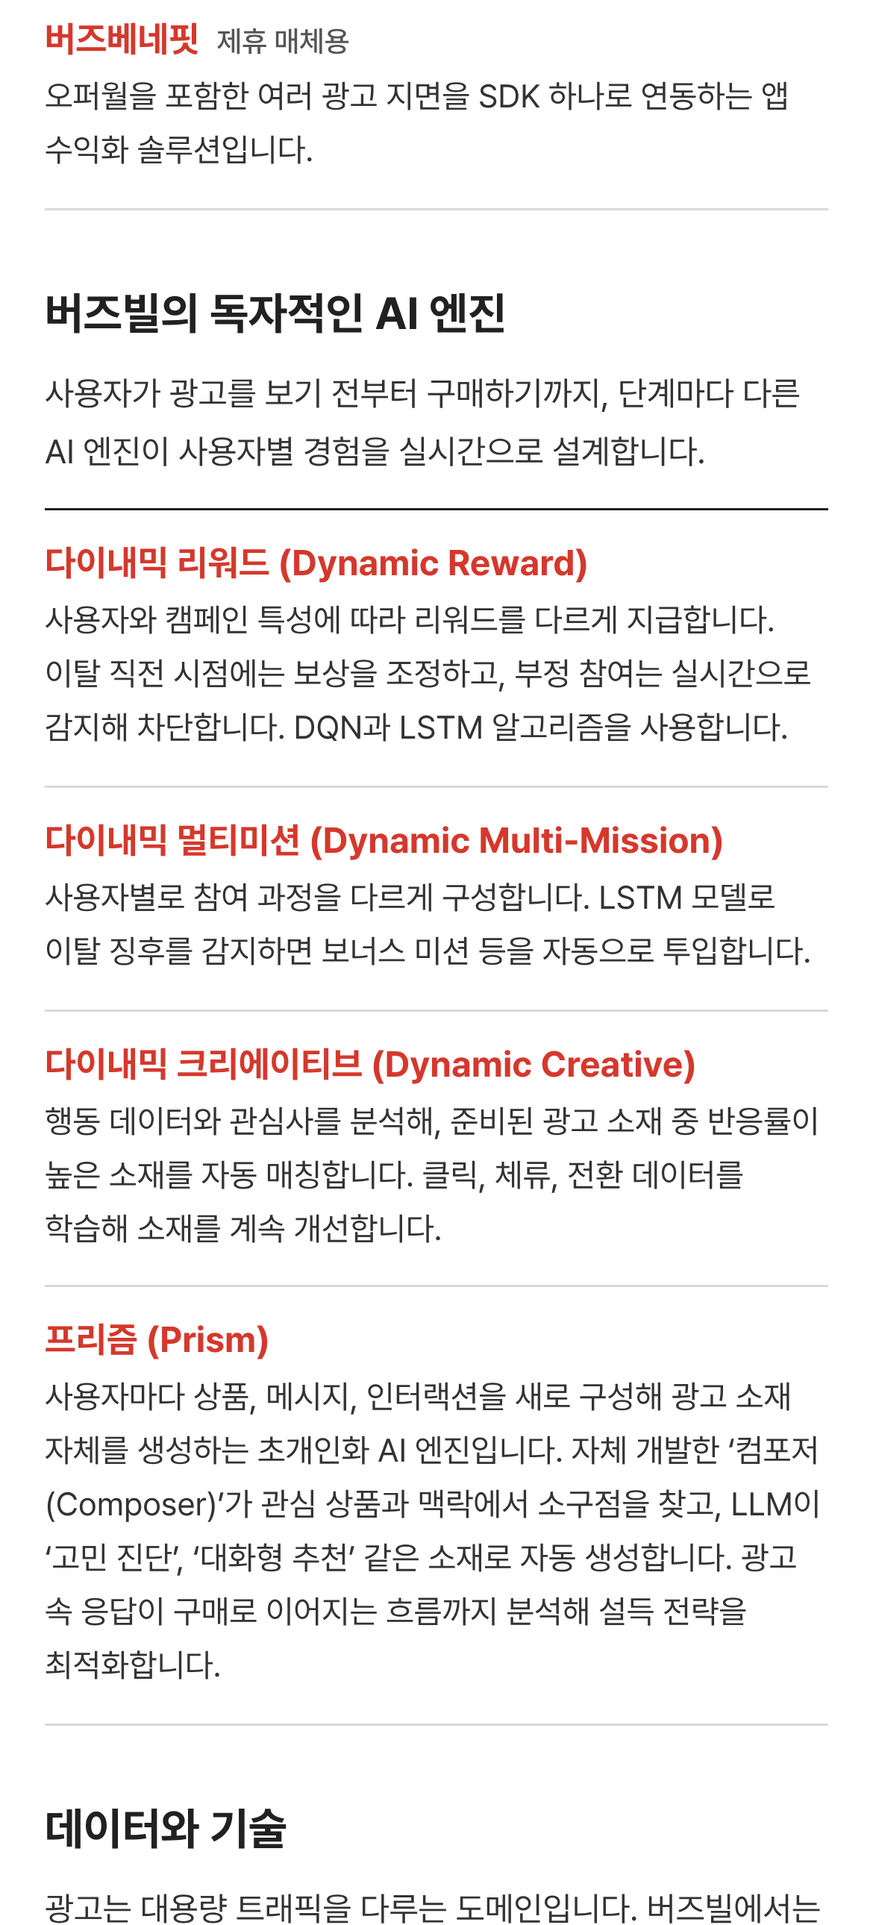
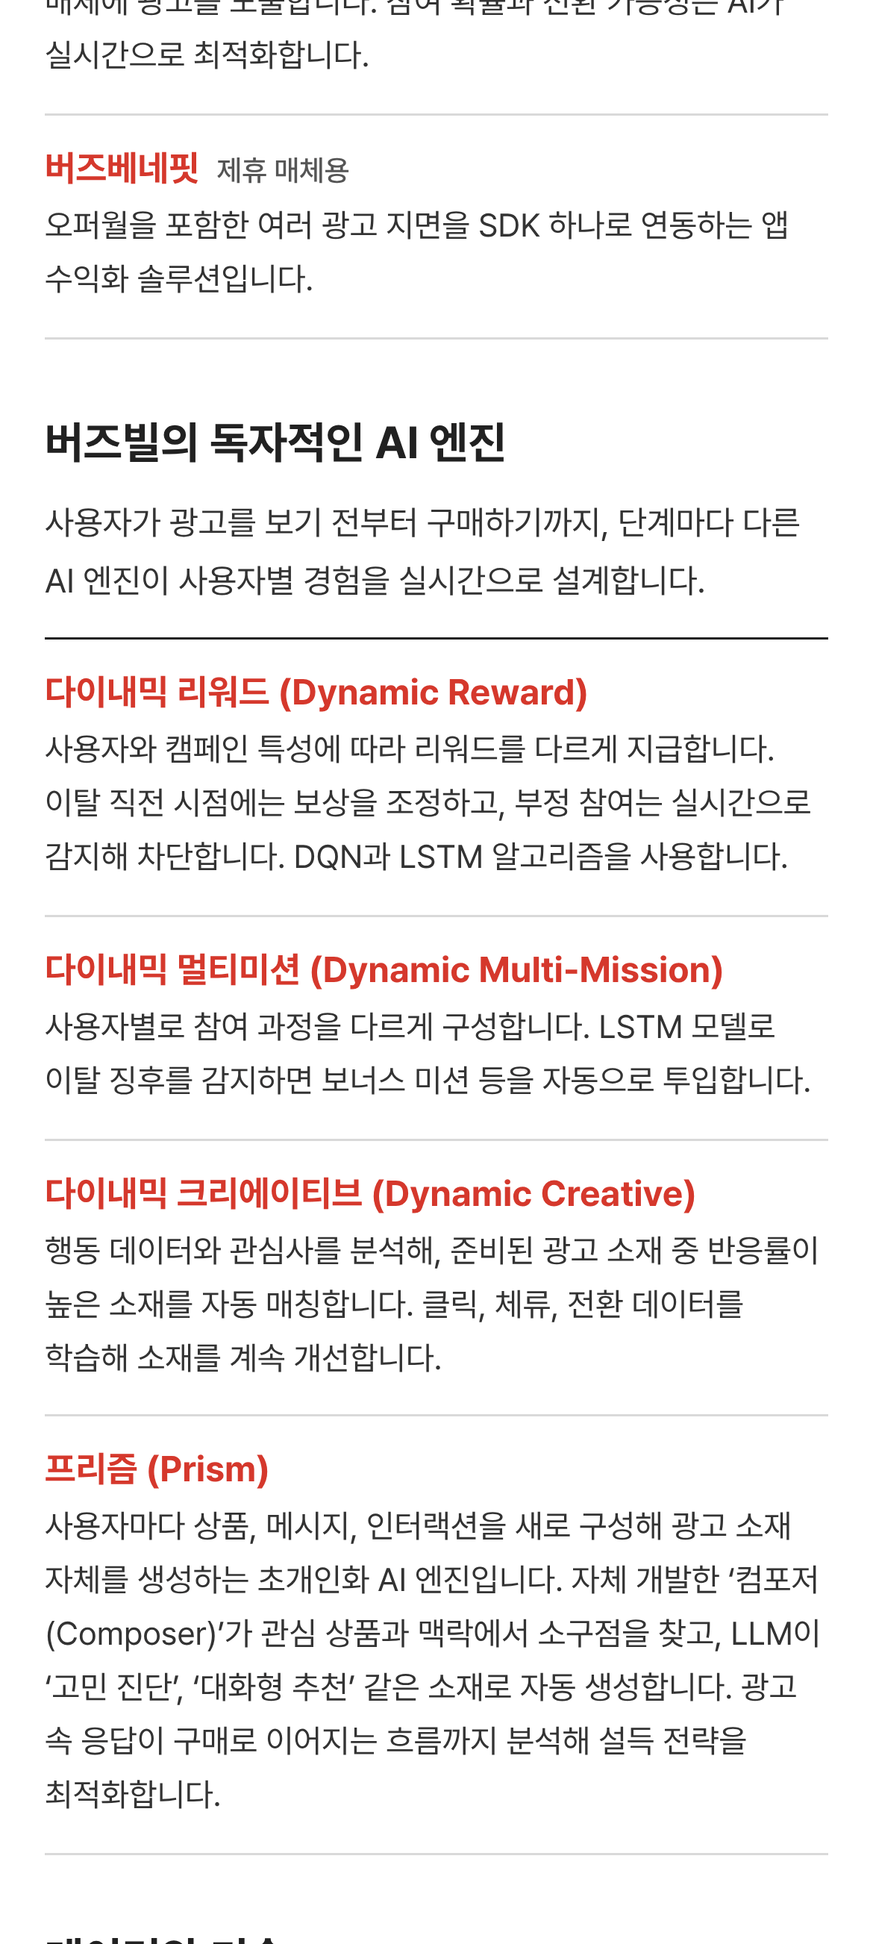
Add files via upload

Changed region(s): [[0.0308, 0.0, 0.9538, 1.0]]

diff --git a/index.html b/index.html
@@ -16,9 +16,9 @@ html,body{margin:0;background:#FFFFFF}
 </head>
 <body>
 <main class="wrap">
-<img src="s1.png" alt="" width="1170" height="2580"><img src="s2.png" alt="" width="1170" height="2580"><img src="s3.png" alt="" width="1170" height="2580"><img src="s4.png" alt="" width="1170" height="2580"><img src="s5.png" alt="" width="1170" height="2580"><img src="s6.png" alt="" width="1170" height="2580"><img src="s7.png" alt="" width="1170" height="2580"><img src="s8.png" alt="" width="1170" height="2580">
-<a href="https://buzzvil.career.greetinghr.com/ko/o/233330" aria-label="채용 공고 보기" style="left:5.128%;top:72.1285%;width:89.744%;height:0.6977%"></a><a href="https://buzzvil.career.greetinghr.com/ko/home" aria-label="채용 홈페이지" style="left:5.128%;top:96.0765%;width:89.744%;height:0.7267%"></a><a href="https://tech.buzzvil.com/" aria-label="테크 블로그" style="left:5.128%;top:96.9486%;width:89.744%;height:0.7267%"></a><a href="https://www.buzzvil.com/career/culture_blog" aria-label="피플 블로그" style="left:5.128%;top:97.8207%;width:89.744%;height:0.7267%"></a>
-<div class="sr">우아한테크코스 2026 리크루팅 데이<br>버즈빌 개발자 채용 안내<br><br>광고 노출 이후의 경험을 설계하는 인터랙션 AI 에이전트, 버즈빌입니다.<br><br>회사 소개<br><br>버즈빌은 인터랙션 AI 에이전트 회사입니다. 2012년에 설립했고, 카카오뱅크, 삼성월렛, CJ ONE 등 500여 개 제휴 매체에 광고를 제공합니다.<br><br>그동안 쌓은 행동 데이터와 자체 AI 엔진으로, 광고를 본 사용자가 참여하고 구매하기까지의 과정을 사용자별로 다르게 설계합니다.<br><br>누적 이용자 수<br>7,000만+<br>월 평균 사용자 수<br>2,400만+<br>제휴 매체 수<br>500+<br>누적 광고주 수<br>20,000+<br>광고 재집행율<br>82%<br>잡플래닛 평점<br>4.1점<br>제품<br>버즈애드 광고주용<br><br>앱 설치, 구매, 가입 등 광고주의 KPI에 맞춰 500여 개 제휴 매체에 광고를 노출합니다. 참여 확률과 전환 가능성은 AI가 실시간으로 최적화합니다.<br><br>버즈베네핏 제휴 매체용<br><br>오퍼월을 포함한 여러 광고 지면을 SDK 하나로 연동하는 앱 수익화 솔루션입니다.<br><br>버즈빌의 독자적인 AI 엔진<br><br>사용자가 광고를 보기 전부터 구매하기까지, 단계마다 다른 AI 엔진이 사용자별 경험을 실시간으로 설계합니다.<br><br>다이내믹 리워드 (Dynamic Reward)<br><br>사용자와 캠페인 특성에 따라 리워드를 다르게 지급합니다. 이탈 직전 시점에는 보상을 조정하고, 부정 참여는 실시간으로 감지해 차단합니다. DQN과 LSTM 알고리즘을 사용합니다.<br><br>다이내믹 멀티미션 (Dynamic Multi-Mission)<br><br>사용자별로 참여 과정을 다르게 구성합니다. LSTM 모델로 이탈 징후를 감지하면 보너스 미션 등을 자동으로 투입합니다.<br><br>다이내믹 크리에이티브 (Dynamic Creative)<br><br>행동 데이터와 관심사를 분석해, 준비된 광고 소재 중 반응률이 높은 소재를 자동 매칭합니다. 클릭, 체류, 전환 데이터를 학습해 소재를 계속 개선합니다.<br><br>프리즘 (Prism)<br><br>사용자마다 상품, 메시지, 인터랙션을 새로 구성해 광고 소재 자체를 생성하는 초개인화 AI 엔진입니다. 자체 개발한 ‘컴포저(Composer)’가 관심 상품과 맥락에서 소구점을 찾고, LLM이 ‘고민 진단’, ‘대화형 추천’ 같은 소재로 자동 생성합니다. 광고 속 응답이 구매로 이어지는 흐름까지 분석해 설득 전략을 최적화합니다.<br><br>데이터와 기술<br><br>광고는 대용량 트래픽을 다루는 도메인입니다. 버즈빌에서는 매월 2,500만 명의 유저에게서 수십 억 건 이상의 데이터가 발생합니다.<br><br>2012년부터 쌓은 수십억 건의 사용자 행동, 보상 자사 데이터<br>500여 제휴 매체의 광고 데이터를 개인정보 공유 없이 학습하는 연합학습 체계<br>K-means, LSTM, DQN 기반 AI 엔진을 실제 서비스에 적용<br>리워드 최적 배분, 어뷰징 차단 등 핵심 로직 특허 보유<br>Performance Maximizer<br>유저 가치 추론 모델 기반의 타겟팅 시스템<br>Prediction Model<br>유저 특성, 행동 로그, 리워드 반응 데이터로 개별 유저의 광고 반응을 실시간 예측<br>Fraud Detection<br>부정 참여 가능성이 높은 행동을 실시간으로 판별해 리워드 광고를 자동 제한<br>개발 문화<br>AI 도구 지원<br><br>Claude Code Max($200 플랜), ChatGPT, Cursor, GitHub Copilot, CodeRabbit 등을 회사에서 지원합니다. 개발 직군이 아닌 구성원도 AI로 필요한 도구를 직접 만들어 씁니다.<br><br>코드 리뷰<br><br>모든 PR은 동료 1명 이상의 리뷰와 승인을 받은 뒤 반영합니다.<br><br>스터디와 세미나<br><br>사내 스터디와 세미나를 운영하고, 설계와 코드에 대해 함께 논의합니다.<br><br>직군 간 소통<br><br>직군과 관계없이 프로덕트 방향에 의견을 낼 수 있습니다. 새로운 기술 도입도 팀에서 제안해 검토합니다.<br><br>기술 스택<br>백엔드<br>Go(gRPC), Python(Django), MySQL, DynamoDB, Redis, Elasticsearch, Kafka<br>프론트엔드<br>TypeScript, React / Next.js, TanStack Query, Zustand, Tailwind CSS, shadcn/ui, Turborepo, Vitest, Playwright<br>클라이언트 (Android)<br>Kotlin(Java 병행), Coroutines, Dagger, Retrofit / OkHttp, AndroidX Lifecycle, Gradle, JUnit / MockK / Robolectric / Espresso, GitHub Actions<br>클라이언트 (iOS)<br>Swift(Obj-C 일부), UIKit, Combine, SwiftUI, CocoaPods, fastlane, GitHub Actions<br>머신러닝<br>Python, PyTorch, LightGBM, CatBoost, scikit-learn, Hugging Face Transformers, ONNX, Triton, SageMaker, MLflow, Bedrock, Airflow<br>DevOps<br>AWS(EKS), Kubernetes, Terraform, Helm, Argo CD, GitHub Actions, Datadog, Grafana, Prometheus, Loki, Sentry<br>참여하는 프로젝트에 따라 일부 다를 수 있습니다.<br>AI 활용 방식<br>동료의 리뷰봇에게 먼저 리뷰받습니다.<br><br>많은 개발자가 자기만의 리뷰 관점을 담은 코드 리뷰 봇을 운영합니다. 개발하면서 동료의 리뷰봇으로 리뷰를 받는 게 일상입니다.<br><br>AI와 함께 풀스택으로 일합니다.<br><br>인프라 생성부터 기획과 디자인까지 AI로 직접 해내도록 장려합니다. 직무 경계에 갇히지 않고 제품을 처음부터 끝까지 만듭니다.<br><br>일할수록 똑똑해지는 에이전트를 설계합니다.<br><br>코딩 에이전트 세션 로그에서 업무 지식을 자동으로 뽑아 knowledge base에 쌓는 파이프라인을 운영합니다. 에이전트가 이 지식을 다시 활용하므로 지식은 휘발되지 않고, 에이전트는 복리로 똑똑해집니다.<br><br>모집 포지션<br>[광고 운영 시스템] 백엔드 개발자<br><br>경력 무관이며 신입도 지원할 수 있습니다.<br>정규직 포지션입니다.<br><br>주요 업무<br>계정 시스템: 광고주와 운영자의 계정, 권한 관리, 제휴사 SSO 연동<br>광고 관리 시스템: 광고 생성과 관리, 지면 노출까지의 서빙 흐름 구축<br>정산 시스템: 제휴사 정산 시스템 연동, 자체 백업 정산 로직 개발<br>이벤트 페이지: 광고와 유저를 잇는 브릿지 페이지 생성 기능과 호스팅 시스템 개발<br>비즈채널: 외부 커머스 스토어 등과 연결해 광고 소재를 수급하고 광고주 자산을 관리하는 기능 개발<br><br>백엔드 개발이 중심이고, 제품 상황에 따라 어드민이나 이벤트 페이지 같은 프론트엔드를 포함한 풀스택으로 업무 범위가 넓어질 수 있습니다.<br><br>기술 스택<br><br>Kotlin, Go, Python(Django), MySQL, DynamoDB, Redis, Elasticsearch, Kafka<br><br>자격 요건<br>Kotlin, Go, Python 등 서버 언어 중 하나 이상으로 백엔드 시스템을 개발해 본 분 (프로젝트 경험 포함)<br>MySQL 등 관계형 DB와 Redis, DynamoDB 등 NoSQL을 사용해 본 분<br>외부 시스템과의 API 연동을 설계하고 개발해 본 분<br>프론트엔드 등 다른 기술 영역으로 넓혀 가는 데 열려 있는 분<br>여러 직군과 원활하게 협업할 수 있는 분<br>AI 도구를 적극적으로 활용해 생산성을 높이는 분<br>근무지<br><br>프로젝트 기간에는 제휴사 오피스에서, 프로젝트가 끝난 뒤에는 버즈빌 오피스에서 근무합니다.<br><br>채용 공고 보기<br>채용 절차<br>서류전형<br>이력서, 자기소개서, 포트폴리오 등 자유양식<br>사전과제<br>직무 적합도 판단을 위한 과제<br>1차 인터뷰 (Job-fit)<br>실무진 면접, 현장 코딩 테스트, 사전과제 리뷰<br>레퍼런스 체크<br>2차 종합 인터뷰 (Culture-fit)<br>직무 및 컬처핏 종합 인터뷰<br>처우협의<br>오퍼레터 전달<br>모든 전형의 합격, 불합격 결과는 영업일 10일 이내에 안내합니다.<br>입사 후 3개월은 프로베이션 기간입니다. 프로베이션 3개월의 근로계약을 먼저 작성하고, 통과하면 기간의 정함이 없는 정규직 계약서를 작성합니다.<br>프로베이션 통과 시 축하금 100만원을 지급합니다.<br>복지<br>몰입을 위한 최적의 환경을 제공합니다.<br>주 1회 전사 재택근무<br>오전 8시~10시 자율 출근<br>1시간 단위 연차 사용<br>3년 이상 근속 시 2주 리프레시 휴가<br>존중과 용기를 담아 커뮤니케이션 합니다.<br>격주 전체 회의에서 회사 정보 공유<br>분기별 OKR로 전사 우선순위 공유<br>전 구성원 영어 이름 사용<br>잘 먹고 잘 쉴 수 있도록 지원합니다.<br>점심 식대 지원<br>종합 건강검진, 전사 상해보험<br>간식과 음료 무제한 제공<br>휴게실, 수면실, 게임룸<br>석촌호수 도보 1분 거리<br>성장을 위해서라면 아끼지 않습니다.<br>AI 툴 적극 지원 (Claude Code Max $200 플랜, ChatGPT, Cursor, GitHub Copilot, CodeRabbit)<br>매월 자기계발비 10만원<br>자기계발 프로젝트 버즈챌린지<br>사내 스터디, 동호회 지원<br>외부 세미나, 컨퍼런스 교육비<br>도서 구매 무제한 지원<br>알찬 리워드 혜택과 함께합니다.<br>버즈빌 홈페이지 지원 시 리워드 100만원<br>인재 추천 리워드 최대 300만원<br>결혼 축하금 및 경조금 최대 100만원<br>본인 및 배우자 출산 시 선물 구독 서비스<br>블로그 포스팅, 브랜딩 활동 리워드<br>5년 이상 장기 근속 특별 리워드<br>지원 방법<br><br>채용 홈페이지에서 포지션을 확인하고 지원할 수 있습니다.<br><br>채용 홈페이지<br>테크 블로그<br>피플 블로그<br>채용 문의: recruit@buzzvil.com<br>사무실: 서울시 송파구 석촌호수로 272, 엠와이빌딩 2-5층</div>
+<img src="s1.png" alt="" width="1170" height="2605"><img src="s2.png" alt="" width="1170" height="2605"><img src="s3.png" alt="" width="1170" height="2605"><img src="s4.png" alt="" width="1170" height="2605"><img src="s5.png" alt="" width="1170" height="2605"><img src="s6.png" alt="" width="1170" height="2605"><img src="s7.png" alt="" width="1170" height="2605"><img src="s8.png" alt="" width="1170" height="2603">
+<a href="https://forms.gle/jYVGB8HRa2gm8NwB7" aria-label="1분 설문 참여하기" style="left:5.128%;top:3.1457%;width:89.744%;height:0.6910%"></a><a href="https://buzzvil.career.greetinghr.com/ko/o/233330" aria-label="채용 공고 보기" style="left:5.128%;top:72.3933%;width:89.744%;height:0.6910%"></a><a href="https://buzzvil.career.greetinghr.com/ko/home" aria-label="채용 홈페이지" style="left:5.128%;top:96.1138%;width:89.744%;height:0.7198%"></a><a href="https://tech.buzzvil.com/" aria-label="테크 블로그" style="left:5.128%;top:96.9776%;width:89.744%;height:0.7198%"></a><a href="https://www.buzzvil.com/career/culture_blog" aria-label="피플 블로그" style="left:5.128%;top:97.8414%;width:89.744%;height:0.7198%"></a>
+<div class="sr">우아한테크코스 2026 리크루팅 데이<br>버즈빌 개발자 채용 안내<br><br>광고 노출 이후의 경험을 설계하는 인터랙션 AI 에이전트, 버즈빌입니다.<br><br>1분 설문 참여하기<br>회사 소개<br><br>버즈빌은 인터랙션 AI 에이전트 회사입니다. 2012년에 설립했고, 카카오뱅크, 삼성월렛, CJ ONE 등 500여 개 제휴 매체에 광고를 제공합니다.<br><br>그동안 쌓은 행동 데이터와 자체 AI 엔진으로, 광고를 본 사용자가 참여하고 구매하기까지의 과정을 사용자별로 다르게 설계합니다.<br><br>누적 이용자 수<br>7,000만+<br>월 평균 사용자 수<br>2,400만+<br>제휴 매체 수<br>500+<br>누적 광고주 수<br>20,000+<br>광고 재집행율<br>82%<br>잡플래닛 평점<br>4.1점<br>제품<br>버즈애드 광고주용<br><br>앱 설치, 구매, 가입 등 광고주의 KPI에 맞춰 500여 개 제휴 매체에 광고를 노출합니다. 참여 확률과 전환 가능성은 AI가 실시간으로 최적화합니다.<br><br>버즈베네핏 제휴 매체용<br><br>오퍼월을 포함한 여러 광고 지면을 SDK 하나로 연동하는 앱 수익화 솔루션입니다.<br><br>버즈빌의 독자적인 AI 엔진<br><br>사용자가 광고를 보기 전부터 구매하기까지, 단계마다 다른 AI 엔진이 사용자별 경험을 실시간으로 설계합니다.<br><br>다이내믹 리워드 (Dynamic Reward)<br><br>사용자와 캠페인 특성에 따라 리워드를 다르게 지급합니다. 이탈 직전 시점에는 보상을 조정하고, 부정 참여는 실시간으로 감지해 차단합니다. DQN과 LSTM 알고리즘을 사용합니다.<br><br>다이내믹 멀티미션 (Dynamic Multi-Mission)<br><br>사용자별로 참여 과정을 다르게 구성합니다. LSTM 모델로 이탈 징후를 감지하면 보너스 미션 등을 자동으로 투입합니다.<br><br>다이내믹 크리에이티브 (Dynamic Creative)<br><br>행동 데이터와 관심사를 분석해, 준비된 광고 소재 중 반응률이 높은 소재를 자동 매칭합니다. 클릭, 체류, 전환 데이터를 학습해 소재를 계속 개선합니다.<br><br>프리즘 (Prism)<br><br>사용자마다 상품, 메시지, 인터랙션을 새로 구성해 광고 소재 자체를 생성하는 초개인화 AI 엔진입니다. 자체 개발한 ‘컴포저(Composer)’가 관심 상품과 맥락에서 소구점을 찾고, LLM이 ‘고민 진단’, ‘대화형 추천’ 같은 소재로 자동 생성합니다. 광고 속 응답이 구매로 이어지는 흐름까지 분석해 설득 전략을 최적화합니다.<br><br>데이터와 기술<br><br>광고는 대용량 트래픽을 다루는 도메인입니다. 버즈빌에서는 매월 2,500만 명의 유저에게서 수십 억 건 이상의 데이터가 발생합니다.<br><br>2012년부터 쌓은 수십억 건의 사용자 행동, 보상 자사 데이터<br>500여 제휴 매체의 광고 데이터를 개인정보 공유 없이 학습하는 연합학습 체계<br>K-means, LSTM, DQN 기반 AI 엔진을 실제 서비스에 적용<br>리워드 최적 배분, 어뷰징 차단 등 핵심 로직 특허 보유<br>Performance Maximizer<br>유저 가치 추론 모델 기반의 타겟팅 시스템<br>Prediction Model<br>유저 특성, 행동 로그, 리워드 반응 데이터로 개별 유저의 광고 반응을 실시간 예측<br>Fraud Detection<br>부정 참여 가능성이 높은 행동을 실시간으로 판별해 리워드 광고를 자동 제한<br>개발 문화<br>AI 도구 지원<br><br>Claude Code Max($200 플랜), ChatGPT, Cursor, GitHub Copilot, CodeRabbit 등을 회사에서 지원합니다. 개발 직군이 아닌 구성원도 AI로 필요한 도구를 직접 만들어 씁니다.<br><br>코드 리뷰<br><br>모든 PR은 동료 1명 이상의 리뷰와 승인을 받은 뒤 반영합니다.<br><br>스터디와 세미나<br><br>사내 스터디와 세미나를 운영하고, 설계와 코드에 대해 함께 논의합니다.<br><br>직군 간 소통<br><br>직군과 관계없이 프로덕트 방향에 의견을 낼 수 있습니다. 새로운 기술 도입도 팀에서 제안해 검토합니다.<br><br>기술 스택<br>백엔드<br>Go(gRPC), Python(Django), MySQL, DynamoDB, Redis, Elasticsearch, Kafka<br>프론트엔드<br>TypeScript, React / Next.js, TanStack Query, Zustand, Tailwind CSS, shadcn/ui, Turborepo, Vitest, Playwright<br>클라이언트 (Android)<br>Kotlin(Java 병행), Coroutines, Dagger, Retrofit / OkHttp, AndroidX Lifecycle, Gradle, JUnit / MockK / Robolectric / Espresso, GitHub Actions<br>클라이언트 (iOS)<br>Swift(Obj-C 일부), UIKit, Combine, SwiftUI, CocoaPods, fastlane, GitHub Actions<br>머신러닝<br>Python, PyTorch, LightGBM, CatBoost, scikit-learn, Hugging Face Transformers, ONNX, Triton, SageMaker, MLflow, Bedrock, Airflow<br>DevOps<br>AWS(EKS), Kubernetes, Terraform, Helm, Argo CD, GitHub Actions, Datadog, Grafana, Prometheus, Loki, Sentry<br>참여하는 프로젝트에 따라 일부 다를 수 있습니다.<br>AI 활용 방식<br>동료의 리뷰봇에게 먼저 리뷰받습니다.<br><br>많은 개발자가 자기만의 리뷰 관점을 담은 코드 리뷰 봇을 운영합니다. 개발하면서 동료의 리뷰봇으로 리뷰를 받는 게 일상입니다.<br><br>AI와 함께 풀스택으로 일합니다.<br><br>인프라 생성부터 기획과 디자인까지 AI로 직접 해내도록 장려합니다. 직무 경계에 갇히지 않고 제품을 처음부터 끝까지 만듭니다.<br><br>일할수록 똑똑해지는 에이전트를 설계합니다.<br><br>코딩 에이전트 세션 로그에서 업무 지식을 자동으로 뽑아 knowledge base에 쌓는 파이프라인을 운영합니다. 에이전트가 이 지식을 다시 활용하므로 지식은 휘발되지 않고, 에이전트는 복리로 똑똑해집니다.<br><br>모집 포지션<br>[광고 운영 시스템] 백엔드 개발자<br><br>경력 무관이며 신입도 지원할 수 있습니다.<br>정규직 포지션입니다.<br><br>주요 업무<br>계정 시스템: 광고주와 운영자의 계정, 권한 관리, 제휴사 SSO 연동<br>광고 관리 시스템: 광고 생성과 관리, 지면 노출까지의 서빙 흐름 구축<br>정산 시스템: 제휴사 정산 시스템 연동, 자체 백업 정산 로직 개발<br>이벤트 페이지: 광고와 유저를 잇는 브릿지 페이지 생성 기능과 호스팅 시스템 개발<br>비즈채널: 외부 커머스 스토어 등과 연결해 광고 소재를 수급하고 광고주 자산을 관리하는 기능 개발<br><br>백엔드 개발이 중심이고, 제품 상황에 따라 어드민이나 이벤트 페이지 같은 프론트엔드를 포함한 풀스택으로 업무 범위가 넓어질 수 있습니다.<br><br>기술 스택<br><br>Kotlin, Go, Python(Django), MySQL, DynamoDB, Redis, Elasticsearch, Kafka<br><br>자격 요건<br>Kotlin, Go, Python 등 서버 언어 중 하나 이상으로 백엔드 시스템을 개발해 본 분 (프로젝트 경험 포함)<br>MySQL 등 관계형 DB와 Redis, DynamoDB 등 NoSQL을 사용해 본 분<br>외부 시스템과의 API 연동을 설계하고 개발해 본 분<br>프론트엔드 등 다른 기술 영역으로 넓혀 가는 데 열려 있는 분<br>여러 직군과 원활하게 협업할 수 있는 분<br>AI 도구를 적극적으로 활용해 생산성을 높이는 분<br>근무지<br><br>프로젝트 기간에는 제휴사 오피스에서, 프로젝트가 끝난 뒤에는 버즈빌 오피스에서 근무합니다.<br><br>채용 공고 보기<br>채용 절차<br>서류전형<br>이력서, 자기소개서, 포트폴리오 등 자유양식<br>사전과제<br>직무 적합도 판단을 위한 과제<br>1차 인터뷰 (Job-fit)<br>실무진 면접, 현장 코딩 테스트, 사전과제 리뷰<br>레퍼런스 체크<br>2차 종합 인터뷰 (Culture-fit)<br>직무 및 컬처핏 종합 인터뷰<br>처우협의<br>오퍼레터 전달<br>모든 전형의 합격, 불합격 결과는 영업일 10일 이내에 안내합니다.<br>입사 후 3개월은 프로베이션 기간입니다. 프로베이션 3개월의 근로계약을 먼저 작성하고, 통과하면 기간의 정함이 없는 정규직 계약서를 작성합니다.<br>프로베이션 통과 시 축하금 100만원을 지급합니다.<br>복지<br>몰입을 위한 최적의 환경을 제공합니다.<br>주 1회 전사 재택근무<br>오전 8시~10시 자율 출근<br>1시간 단위 연차 사용<br>3년 이상 근속 시 2주 리프레시 휴가<br>존중과 용기를 담아 커뮤니케이션 합니다.<br>격주 전체 회의에서 회사 정보 공유<br>분기별 OKR로 전사 우선순위 공유<br>전 구성원 영어 이름 사용<br>잘 먹고 잘 쉴 수 있도록 지원합니다.<br>점심 식대 지원<br>종합 건강검진, 전사 상해보험<br>간식과 음료 무제한 제공<br>휴게실, 수면실, 게임룸<br>석촌호수 도보 1분 거리<br>성장을 위해서라면 아끼지 않습니다.<br>AI 툴 적극 지원 (Claude Code Max $200 플랜, ChatGPT, Cursor, GitHub Copilot, CodeRabbit)<br>매월 자기계발비 10만원<br>자기계발 프로젝트 버즈챌린지<br>사내 스터디, 동호회 지원<br>외부 세미나, 컨퍼런스 교육비<br>도서 구매 무제한 지원<br>알찬 리워드 혜택과 함께합니다.<br>버즈빌 홈페이지 지원 시 리워드 100만원<br>인재 추천 리워드 최대 300만원<br>결혼 축하금 및 경조금 최대 100만원<br>본인 및 배우자 출산 시 선물 구독 서비스<br>블로그 포스팅, 브랜딩 활동 리워드<br>5년 이상 장기 근속 특별 리워드<br>지원 방법<br><br>채용 홈페이지에서 포지션을 확인하고 지원할 수 있습니다.<br><br>채용 홈페이지<br>테크 블로그<br>피플 블로그<br>채용 문의: recruit@buzzvil.com<br>사무실: 서울시 송파구 석촌호수로 272, 엠와이빌딩 2-5층</div>
 </main>
 </body>
 </html>
